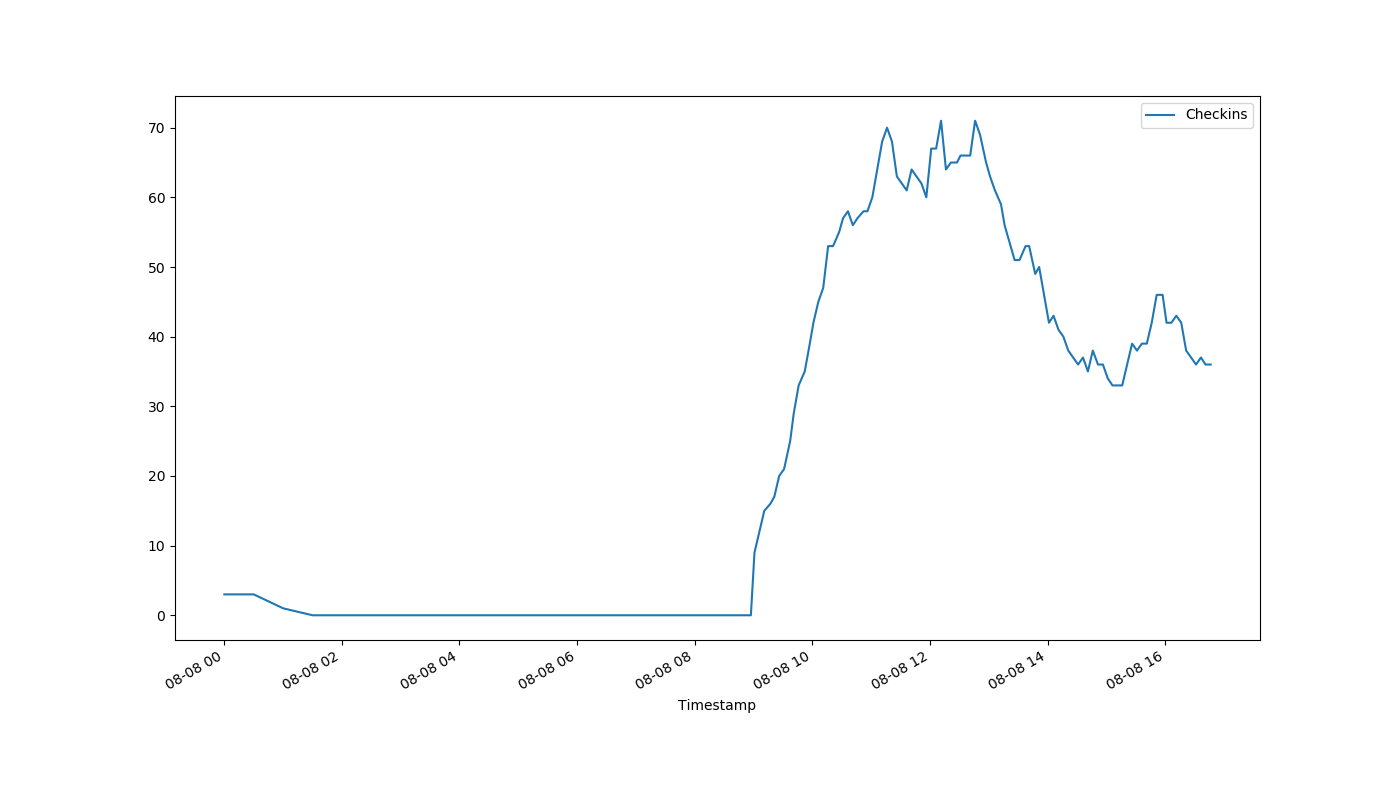
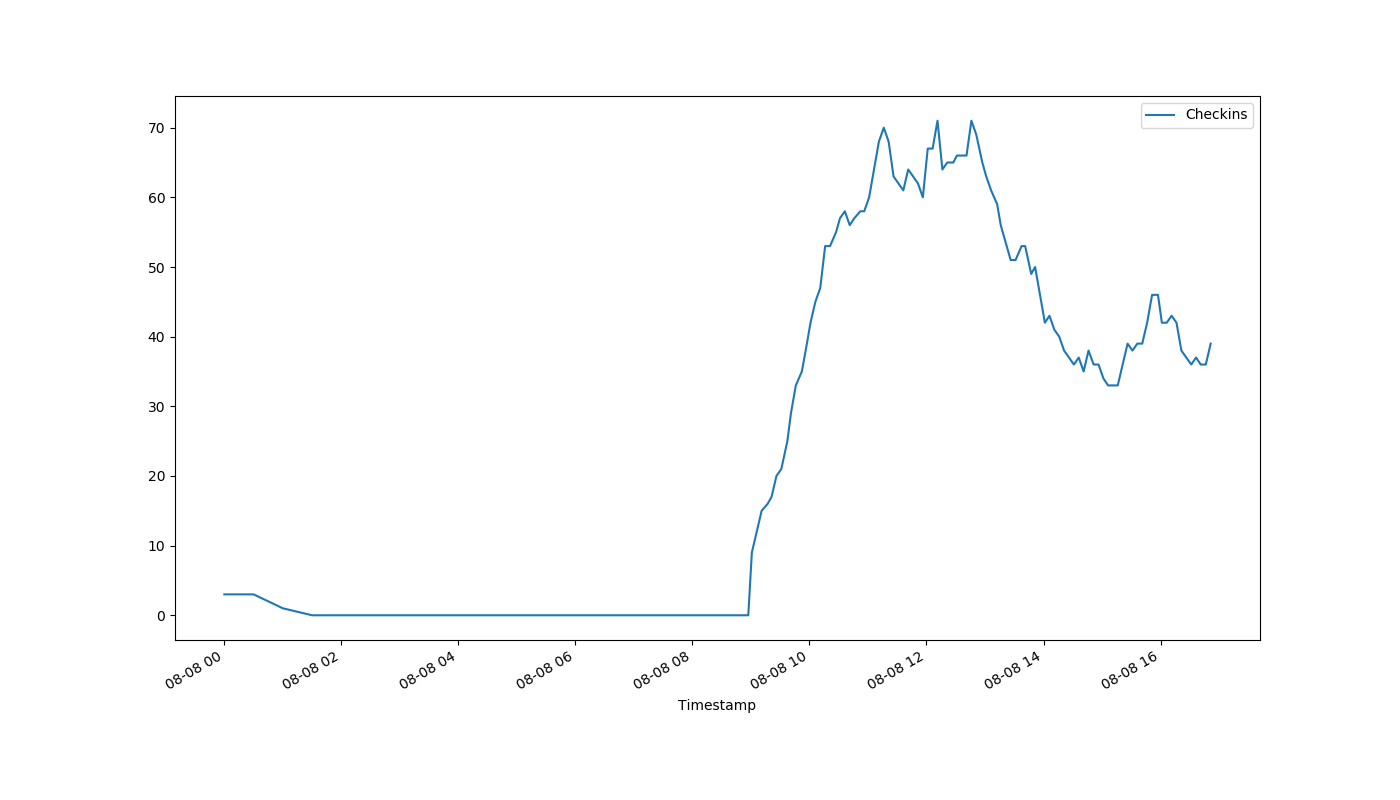
auto-Aug-08-16:53:31

diff --git a/index.html b/index.html
@@ -1,1 +1,1 @@
-<!DOCTYPE html><html><head><meta http-equiv="refresh" content="30"><link rel='stylesheet' href='holmcurrent.css'></head><body><p id='count'>36</p><div id='graph-wrap'><img id='graph' src='holmgraph-Aug-08.png'></div><p id='updated'>Last updated 16:47:01 / 16:46:14</p></body></html>
+<!DOCTYPE html><html><head><meta http-equiv="refresh" content="30"><link rel='stylesheet' href='holmcurrent.css'></head><body><p id='count'>39</p><div id='graph-wrap'><img id='graph' src='holmgraph-Aug-08.png'></div><p id='updated'>Last updated 16:52:01 / 16:51:15</p></body></html>
